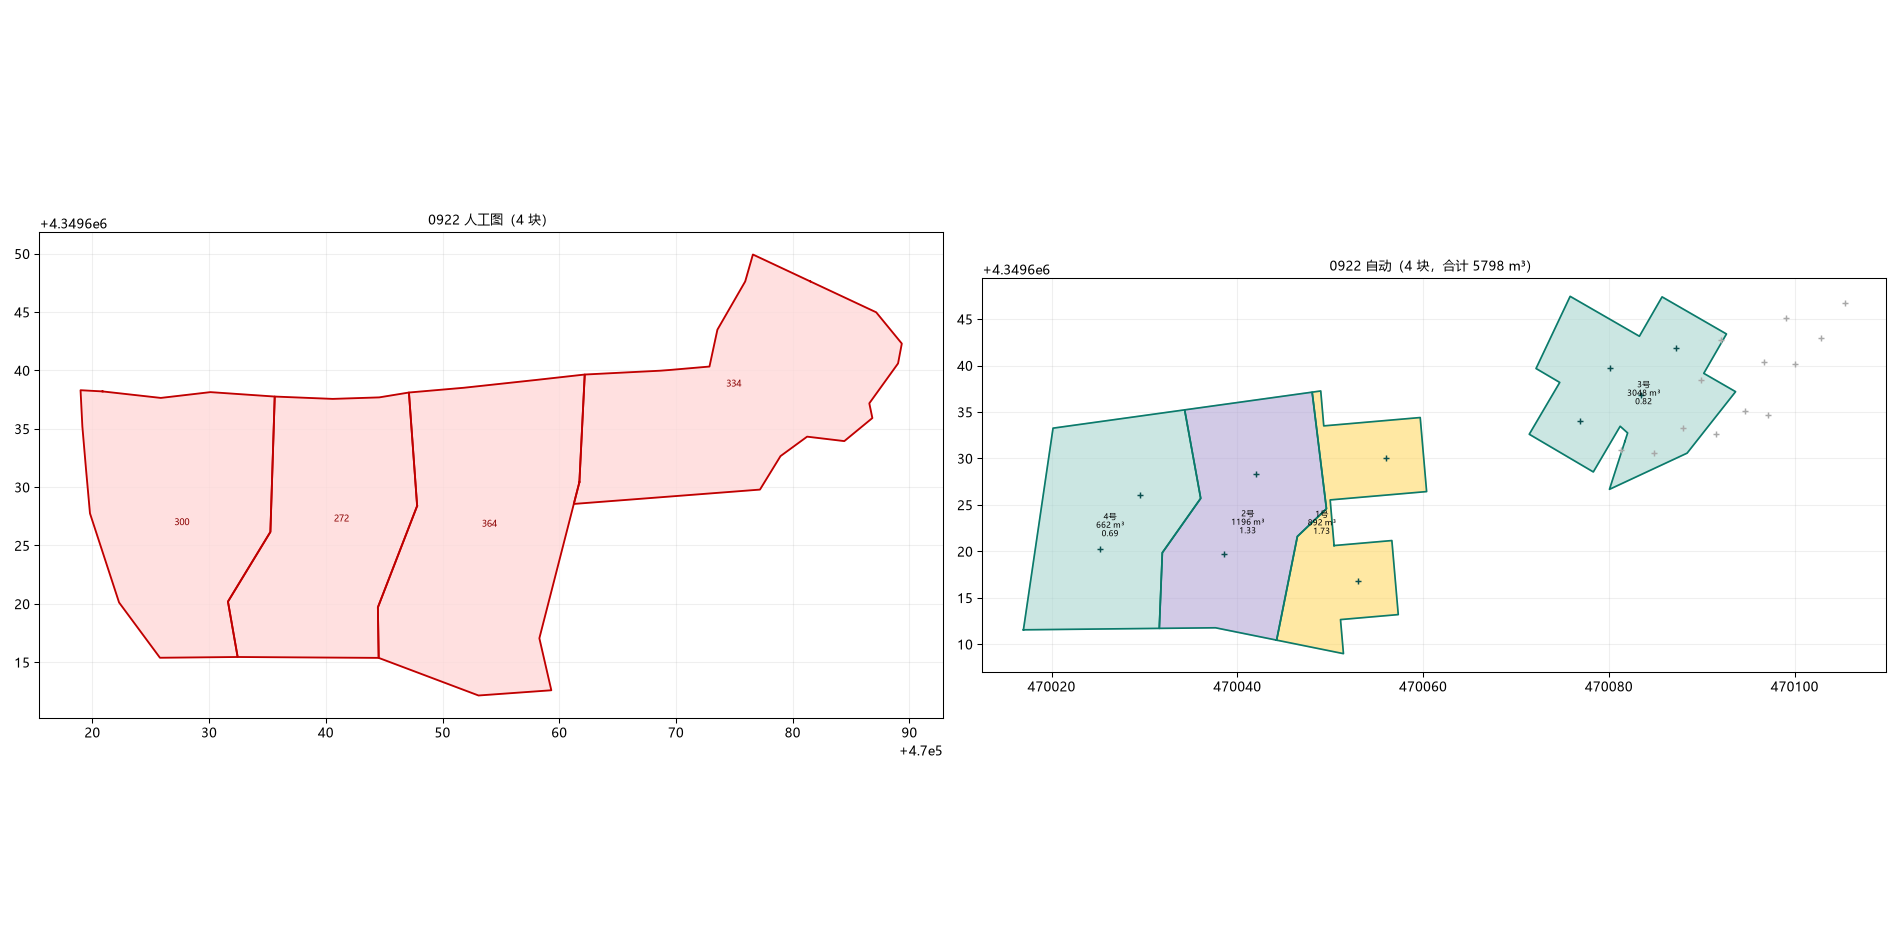
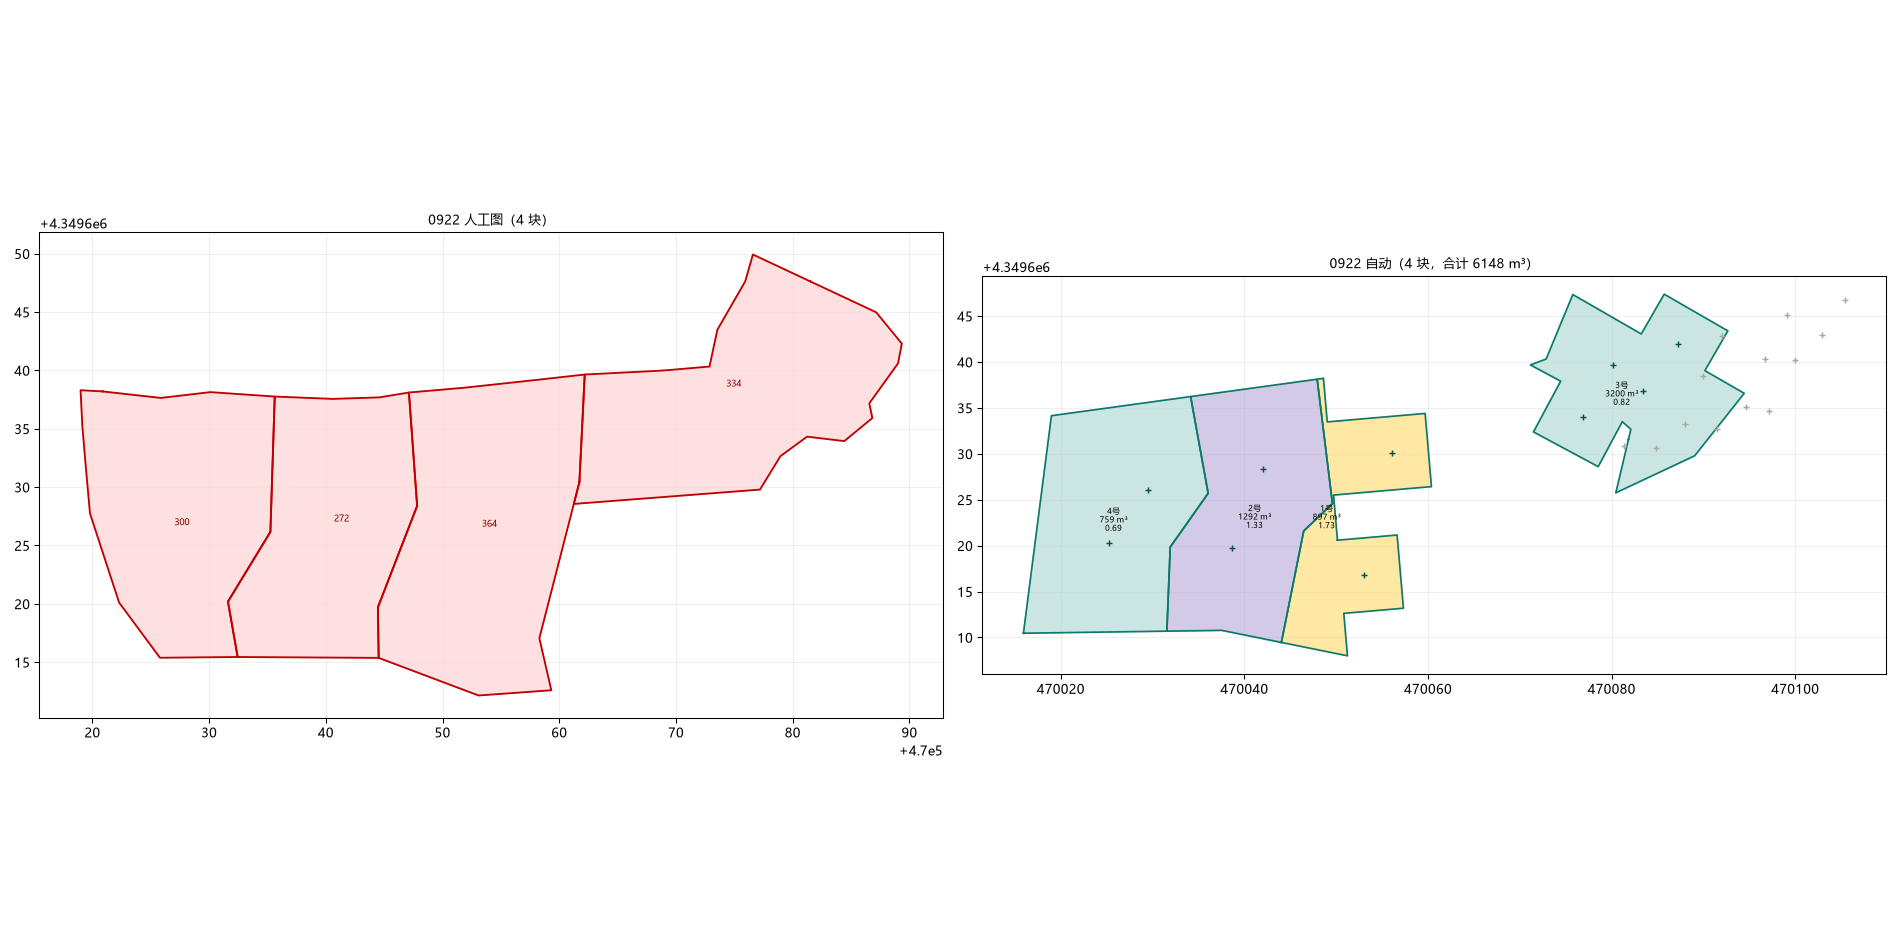
core: 标定加 --by-volume（块数要与人工图一致，再取体积差最小）；0922 外推标到 9m（-18.1%→-13.1%）

diff --git a/3DMine二次圈矿工具_初步原型/core/calibrate.py b/3DMine二次圈矿工具_初步原型/core/calibrate.py
@@ -32,6 +32,9 @@ import params as _params                                        # noqa: E402
 
 PROBE = ROOT / "_probe"
 SKIP = {"爆区方格网", "钻孔", "点", "线条", "孔口文字"}
+# 人工报告里的合计体积（用来算体积差；没有的炮区就不做体积优选）
+MANUAL_VOL = {"0915": 13497.316, "0922": 7075.279, "1003": 9435.031,
+              "1004": 9846.363, "1008": 3951.494}
 
 
 def scan_manual(dwg: Path, out_json: Path, tries: int = 5) -> bool:
@@ -58,6 +61,18 @@ def manual_union(json_path: Path):
         if poly.area >= 5.0:
             polys.append(poly)
     return unary_union(polys) if polys else None
+
+
+def manual_block_count(json_path: Path) -> int:
+    """人工图里有几个块（面积 ≥5 m² 的折线数）——用来约束"自动块的个数要对得上"。"""
+    data = json.loads(Path(json_path).read_text(encoding="utf-8"))
+    n = 0
+    for p in data.get("polylines", []):
+        if p.get("layer") in SKIP or len(p.get("pts", [])) < 3:
+            continue
+        if Polygon(p["pts"]).buffer(0).area >= 5.0:
+            n += 1
+    return n
 
 
 def iou(a, b):
@@ -89,6 +104,7 @@ def main() -> None:
         i = sys.argv.index("--extrude")
         grid = [float(x) for x in sys.argv[i + 1:] if not x.startswith("-")]
     write = "--write" in sys.argv
+    by_volume = "--by-volume" in sys.argv
 
     # 找该炮区的数据库与综合图（同目录/上级目录里带"综合"的 dwg）
     day = None
@@ -129,7 +145,7 @@ def main() -> None:
     allh = list(holes.values())
     P0 = _params.for_blast(date)
     ore, _ = pick_zone(holes, adjacent_max=P0["zone_link_m"])
-    best = None
+    cands = []
     for ex in (grid or [P0["extrude_m"]]):
         P = dict(P0)
         P["extrude_m"] = float(ex)
@@ -155,13 +171,25 @@ def main() -> None:
         ring, blocks, tv = evaluate(holes, allh, P, comp, date, ml, mr)
         print("  外推 %4.1f m → IoU %.3f  体积 %9.1f  %d 块"
               % (ex, sc, tv, len(blocks)))
-        if best is None or sc > best[0]:
-            best = (sc, float(ex), ml, mr, tv, len(blocks))
-    if best is None:
+        cands.append((sc, float(ex), ml, mr, tv, len(blocks)))
+    if not cands:
         print("没算出来")
         return
+    mv = MANUAL_VOL.get(date)
+    if by_volume and mv:
+        # 先按"块数要与人工图一致 + IoU 在最佳附近"筛，再取体积差最小的
+        n_man = manual_block_count(scan_json)
+        top = max(c[0] for c in cands)
+        pool = [c for c in cands if c[0] >= top - 0.02 and c[5] == n_man]
+        if not pool:
+            pool = [c for c in cands if c[0] >= top - 0.02] or cands
+        best = min(pool, key=lambda c: abs(c[4] - mv))
+    else:
+        best = max(cands, key=lambda c: c[0])
     sc, ex, ml, mr, tv, nb = best
-    print("\n最佳：外推 %.1f m  IoU %.3f  体积 %.1f  %d 块" % (ex, sc, tv, nb))
+    dev = (tv - mv) / mv * 100 if mv else 0.0
+    print("\n最佳：外推 %.1f m  IoU %.3f  体积 %.1f (%+.1f%%)  %d 块"
+          % (ex, sc, tv, dev, nb))
     print("  chain_left  = %s" % json.dumps(ml, ensure_ascii=False))
     print("  chain_right = %s" % json.dumps(mr, ensure_ascii=False))
     if write:
